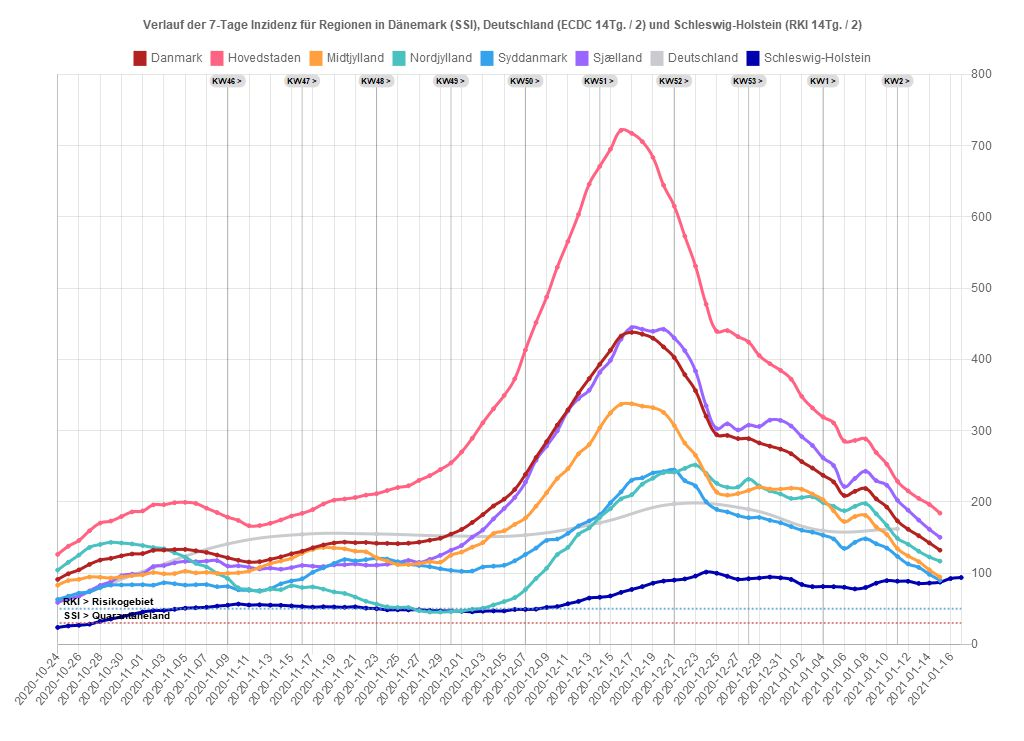
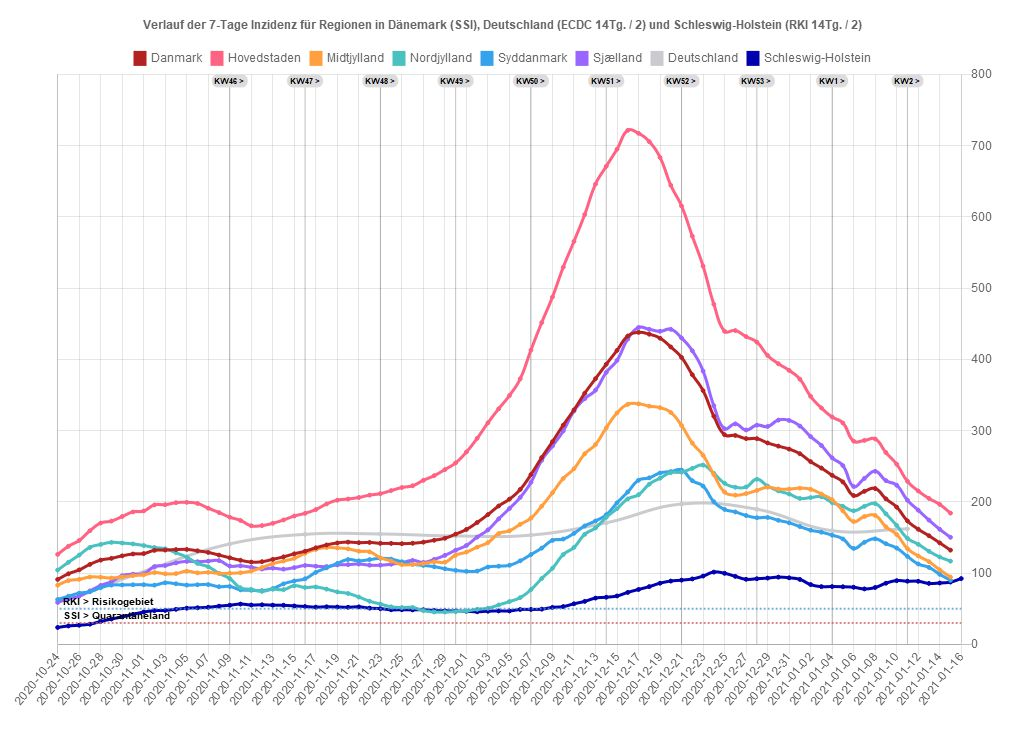
18.01.2021 14:20:40,46

Changed region(s): [[0.0312, 0.0931, 0.9375, 0.9622], [0.1875, 0.0931, 0.25, 0.1242], [0.1562, 0.6518, 0.1875, 0.6829]]

diff --git a/dk/regioner.js b/dk/regioner.js
@@ -1,8 +1,8 @@
 var chdata={ type:'line',
-last_update: '2021-01-17',
+last_update: '2021-01-18',
 last_dk_data: '2021-01-15',
 data: {
-labels: ["2020-10-24","2020-10-25","2020-10-26","2020-10-27","2020-10-28","2020-10-29","2020-10-30","2020-10-31","2020-11-01","2020-11-02","2020-11-03","2020-11-04","2020-11-05","2020-11-06","2020-11-07","2020-11-08","2020-11-09","2020-11-10","2020-11-11","2020-11-12","2020-11-13","2020-11-14","2020-11-15","2020-11-16","2020-11-17","2020-11-18","2020-11-19","2020-11-20","2020-11-21","2020-11-22","2020-11-23","2020-11-24","2020-11-25","2020-11-26","2020-11-27","2020-11-28","2020-11-29","2020-11-30","2020-12-01","2020-12-02","2020-12-03","2020-12-04","2020-12-05","2020-12-06","2020-12-07","2020-12-08","2020-12-09","2020-12-10","2020-12-11","2020-12-12","2020-12-13","2020-12-14","2020-12-15","2020-12-16","2020-12-17","2020-12-18","2020-12-19","2020-12-20","2020-12-21","2020-12-22","2020-12-23","2020-12-24","2020-12-25","2020-12-26","2020-12-27","2020-12-28","2020-12-29","2020-12-30","2020-12-31","2021-01-01","2021-01-02","2021-01-03","2021-01-04","2021-01-05","2021-01-06","2021-01-07","2021-01-08","2021-01-09","2021-01-10","2021-01-11","2021-01-12","2021-01-13","2021-01-14","2021-01-15","2021-01-16","2021-01-17"],
+labels: ["2020-10-24","2020-10-25","2020-10-26","2020-10-27","2020-10-28","2020-10-29","2020-10-30","2020-10-31","2020-11-01","2020-11-02","2020-11-03","2020-11-04","2020-11-05","2020-11-06","2020-11-07","2020-11-08","2020-11-09","2020-11-10","2020-11-11","2020-11-12","2020-11-13","2020-11-14","2020-11-15","2020-11-16","2020-11-17","2020-11-18","2020-11-19","2020-11-20","2020-11-21","2020-11-22","2020-11-23","2020-11-24","2020-11-25","2020-11-26","2020-11-27","2020-11-28","2020-11-29","2020-11-30","2020-12-01","2020-12-02","2020-12-03","2020-12-04","2020-12-05","2020-12-06","2020-12-07","2020-12-08","2020-12-09","2020-12-10","2020-12-11","2020-12-12","2020-12-13","2020-12-14","2020-12-15","2020-12-16","2020-12-17","2020-12-18","2020-12-19","2020-12-20","2020-12-21","2020-12-22","2020-12-23","2020-12-24","2020-12-25","2020-12-26","2020-12-27","2020-12-28","2020-12-29","2020-12-30","2020-12-31","2021-01-01","2021-01-02","2021-01-03","2021-01-04","2021-01-05","2021-01-06","2021-01-07","2021-01-08","2021-01-09","2021-01-10","2021-01-11","2021-01-12","2021-01-13","2021-01-14","2021-01-15","2021-01-16"],
 datasets: [
 {label: 'Danmark',
 backgroundColor: window.chartColors.firebrick,
@@ -39,11 +39,11 @@ backgroundColor: window.chartColors.grey,
 borderColor: window.chartColors.grey,
 spanGaps: true,
 fill: false,
-data: [,,67.8,,,,,,,107.6,,,,,,,140.9,,,,,,,154.4,,,,,,,154.9,,,,,,,152.1,,,,,,,153.3,,,,,,,170.6,,,,,,,196.9,,,,,,,189.6,,,,,,,159.5,,,,,,,162.1,,,,,,]},
+data: [,,67.8,,,,,,,107.6,,,,,,,140.9,,,,,,,154.4,,,,,,,154.9,,,,,,,152.1,,,,,,,153.3,,,,,,,170.6,,,,,,,196.9,,,,,,,189.6,,,,,,,159.5,,,,,,,162.1,,,,,]},
 {label: 'Schleswig-Holstein',
 backgroundColor: '#0000AF',
 borderColor: '#0000AF',
 fill: false,
-data: [23.7,25.8,26.8,28.3,32.1,35.5,38.5,42.1,45.3,47.3,47.6,49.2,50.7,51.3,52.0,53.6,54.9,56.5,55.2,55.5,55.0,54.8,53.9,53.1,52.2,52.7,52.4,52.0,52.6,50.8,50.1,48.5,48.6,48.4,48.5,47.5,47.1,46.7,46.4,45.7,46.5,46.9,46.9,48.9,49.0,49.4,51.8,53.0,56.9,60.3,64.9,66.1,67.9,72.9,77.0,81.0,85.8,88.8,90.1,91.8,95.8,101.4,99.8,95.5,91.3,92.1,93.1,94.4,93.4,91.1,84.0,81.0,81.1,80.9,80.1,77.8,79.8,85.8,89.4,88.6,88.5,85.5,86.0,87.3,92.3,93.8]}
+data: [23.7,25.8,26.8,28.3,32.1,35.5,38.5,42.1,45.3,47.3,47.6,49.2,50.7,51.3,52.0,53.6,54.9,56.5,55.2,55.5,55.0,54.8,53.9,53.1,52.2,52.7,52.4,52.0,52.6,50.8,50.1,48.5,48.6,48.4,48.5,47.5,47.1,46.7,46.4,45.7,46.5,46.9,46.9,48.9,49.0,49.4,51.8,53.0,56.9,60.3,64.9,66.1,67.9,72.9,77.0,81.0,85.8,88.8,90.1,91.8,95.8,101.4,99.7,95.4,91.3,92.1,93.0,94.3,93.4,91.1,83.9,81.0,81.1,80.8,80.1,77.8,79.8,85.8,89.4,88.6,88.5,85.5,86.1,87.4,92.3]}
 ]}};
 

diff --git a/sterblichkeit/sterbefaelle7_ueber_us.js b/sterblichkeit/sterbefaelle7_ueber_us.js
@@ -13,11 +13,11 @@ lastcw: '2020/53',
 lastcw_covid: '2021/01',
 covid_sum: '374442',
 jh_last_covid_dayoffset: '0',
-jh_covid_sum: '397574',
+jh_covid_sum: '397600',
 labels: ["2020/01","2020/02","2020/03","2020/04","2020/05","2020/06","2020/07","2020/08","2020/09","2020/10","2020/11","2020/12","2020/13","2020/14","2020/15","2020/16","2020/17","2020/18","2020/19","2020/20","2020/21","2020/22","2020/23","2020/24","2020/25","2020/26","2020/27","2020/28","2020/29","2020/30","2020/31","2020/32","2020/33","2020/34","2020/35","2020/36","2020/37","2020/38","2020/39","2020/40","2020/41","2020/42","2020/43","2020/44","2020/45","2020/46","2020/47","2020/48","2020/49","2020/50","2020/51","2020/52","2020/53","2021/01","2021/02","2021/03","2021/04"],
 type: 'line',
 _ecdc_data: [0,0,0,0,0,0,0,0,2,19,48,402,2038,7138,12461,18574,14194,12806,11846,10034,8158,6663,6131,5218,4243,5829,4143,5258,5329,6401,7925,8078,7114,6754,6263,5872,5138,5430,5247,5038,4977,4903,5556,5766,6576,8642,10568,10091,15437,16867,18493,15656,18264,22852,,,],
-_jh_data: [,,,0,0,0,0,0,1,20,49,506,2914,9080,14849,15165,14834,13321,12071,9846,8399,6700,5874,5079,4204,3958,3712,5414,5544,6536,7912,7393,7101,6682,6300,5839,5124,5428,5422,4983,5068,5049,5699,5785,7032,7763,10533,10080,15323,16938,18345,15407,18371,22684,23237,,],
+_jh_data: [,,,0,0,0,0,0,1,20,49,506,2914,9080,14849,15165,14834,13321,12071,9846,8399,6700,5874,5079,4204,3958,3712,5414,5544,6536,7912,7393,7101,6682,6300,5839,5124,5428,5422,4983,5068,5049,5699,5785,7032,7763,10533,10080,15323,16938,18345,15407,18371,22684,23263,,],
 datasets: [
 {label: '2017',
 borderColor: 'hsl(200,30%,60%)',

diff --git a/sh/index_sh_alter.html b/sh/index_sh_alter.html
@@ -5,7 +5,7 @@
 <meta property="og:image" content="index_sh_alter.jpg" />
 <meta property="og:type" content="website" />
 <meta property="og:locale" content="de_DE" />
-<meta property="og:updated_time" content="2021-01-18T07:05:00+01:00" />
+<meta property="og:updated_time" content="2021-01-18T14:20:40+01:00" />
 <title>Altersverteilung der COVID-19-Fälle in Schleswig-Holstein</title>
 <link rel="stylesheet" href="../css/style.css" media="screen" type="text/css">
 <link rel="stylesheet" media="screen" href="Chart.min.css"> 

diff --git a/sh/index_pi_alter.html b/sh/index_pi_alter.html
@@ -5,7 +5,7 @@
 <meta property="og:image" content="index_pi_alter.jpg" />
 <meta property="og:type" content="website" />
 <meta property="og:locale" content="de_DE" />
-<meta property="og:updated_time" content="2021-01-18T07:05:00+01:00" />
+<meta property="og:updated_time" content="2021-01-18T14:20:40+01:00" />
 <title>Altersverteilung der COVID-19-Fälle im Kreis Pinneberg</title>
 <link rel="stylesheet" href="../css/style.css" media="screen" type="text/css">
 <link rel="stylesheet" media="screen" href="Chart.min.css"> 

diff --git a/sh/index.html b/sh/index.html
@@ -5,7 +5,7 @@
 <meta property="og:image" content="index.jpg" />
 <meta property="og:type" content="website" />
 <meta property="og:locale" content="de_DE" />
-<meta property="og:updated_time" content="2021-01-18T07:05:00+01:00" />
+<meta property="og:updated_time" content="2021-01-18T14:20:40+01:00" />
 <title>COVID-19-Fälle im Kreis Pinneberg</title>
 <link rel="stylesheet" href="../css/style.css" media="screen" type="text/css">
 <link rel="stylesheet" media="screen" href="Chart.min.css"> 
